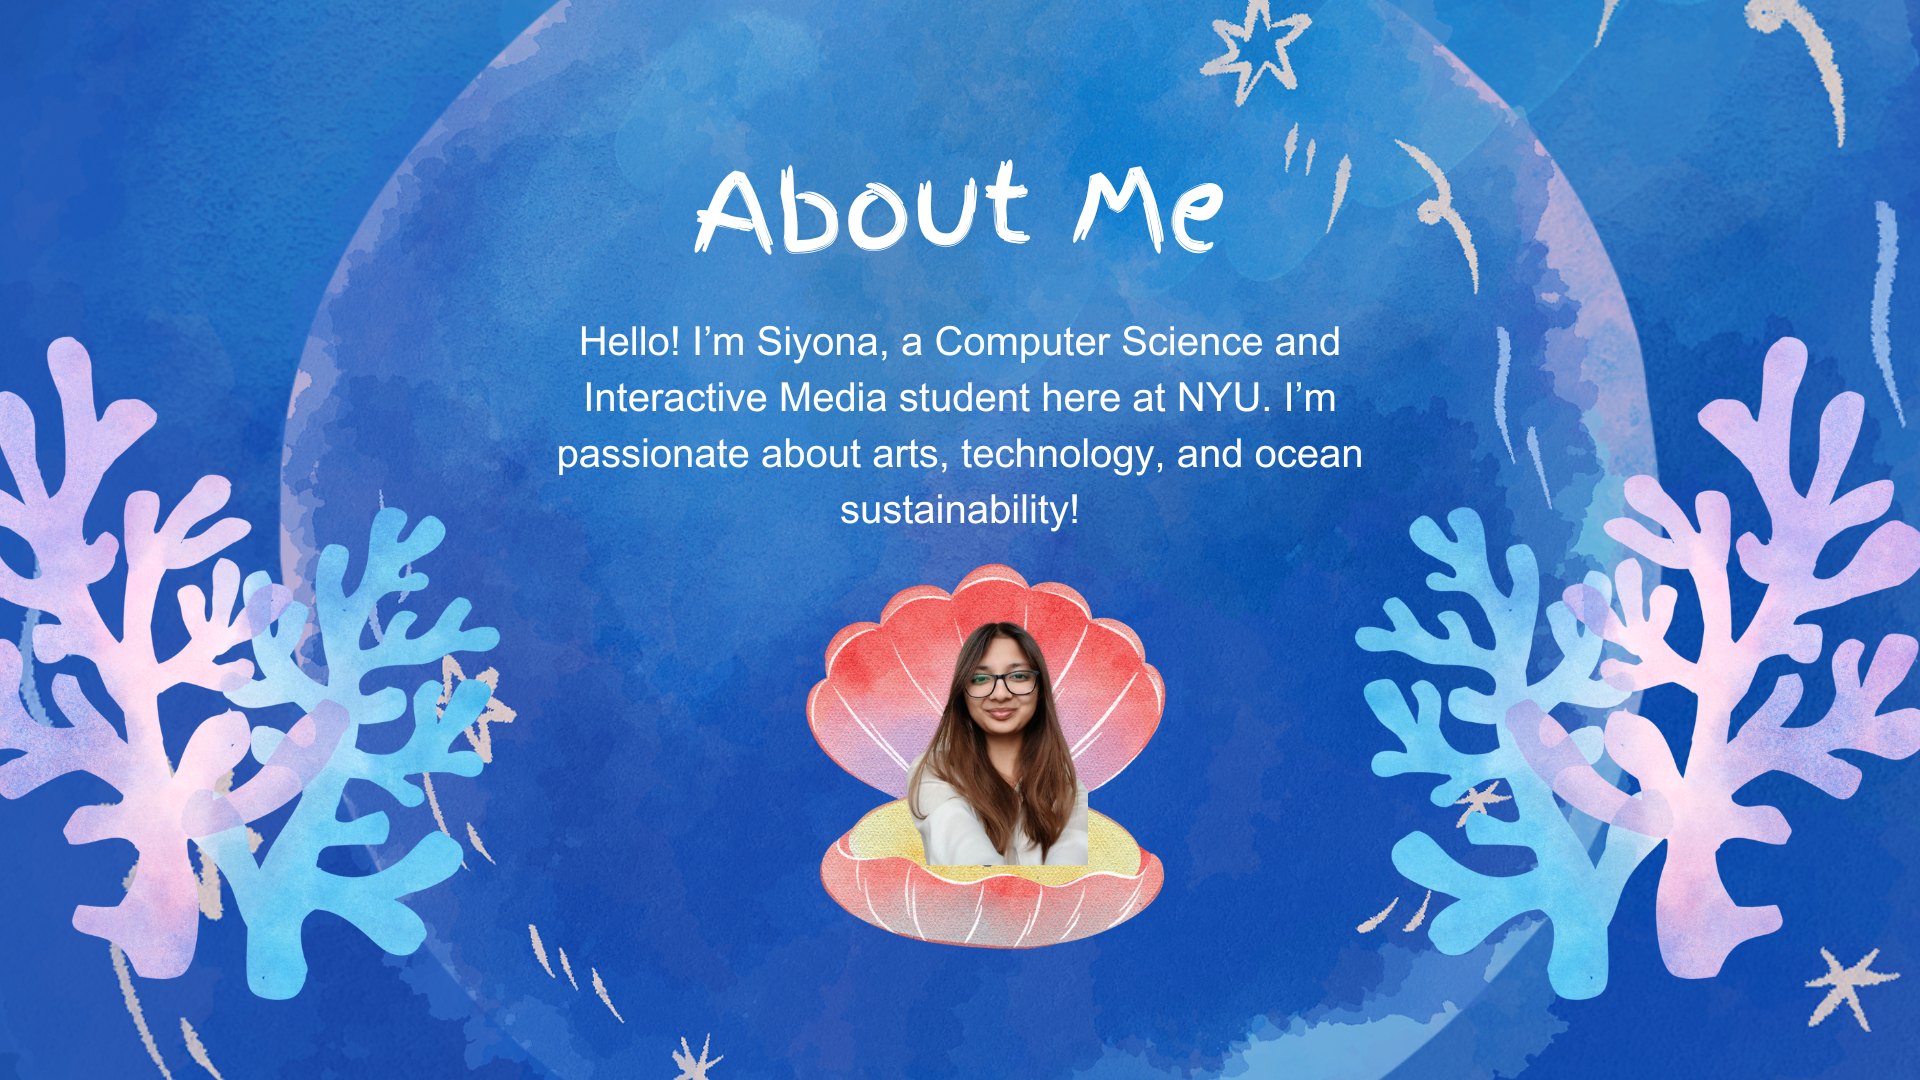
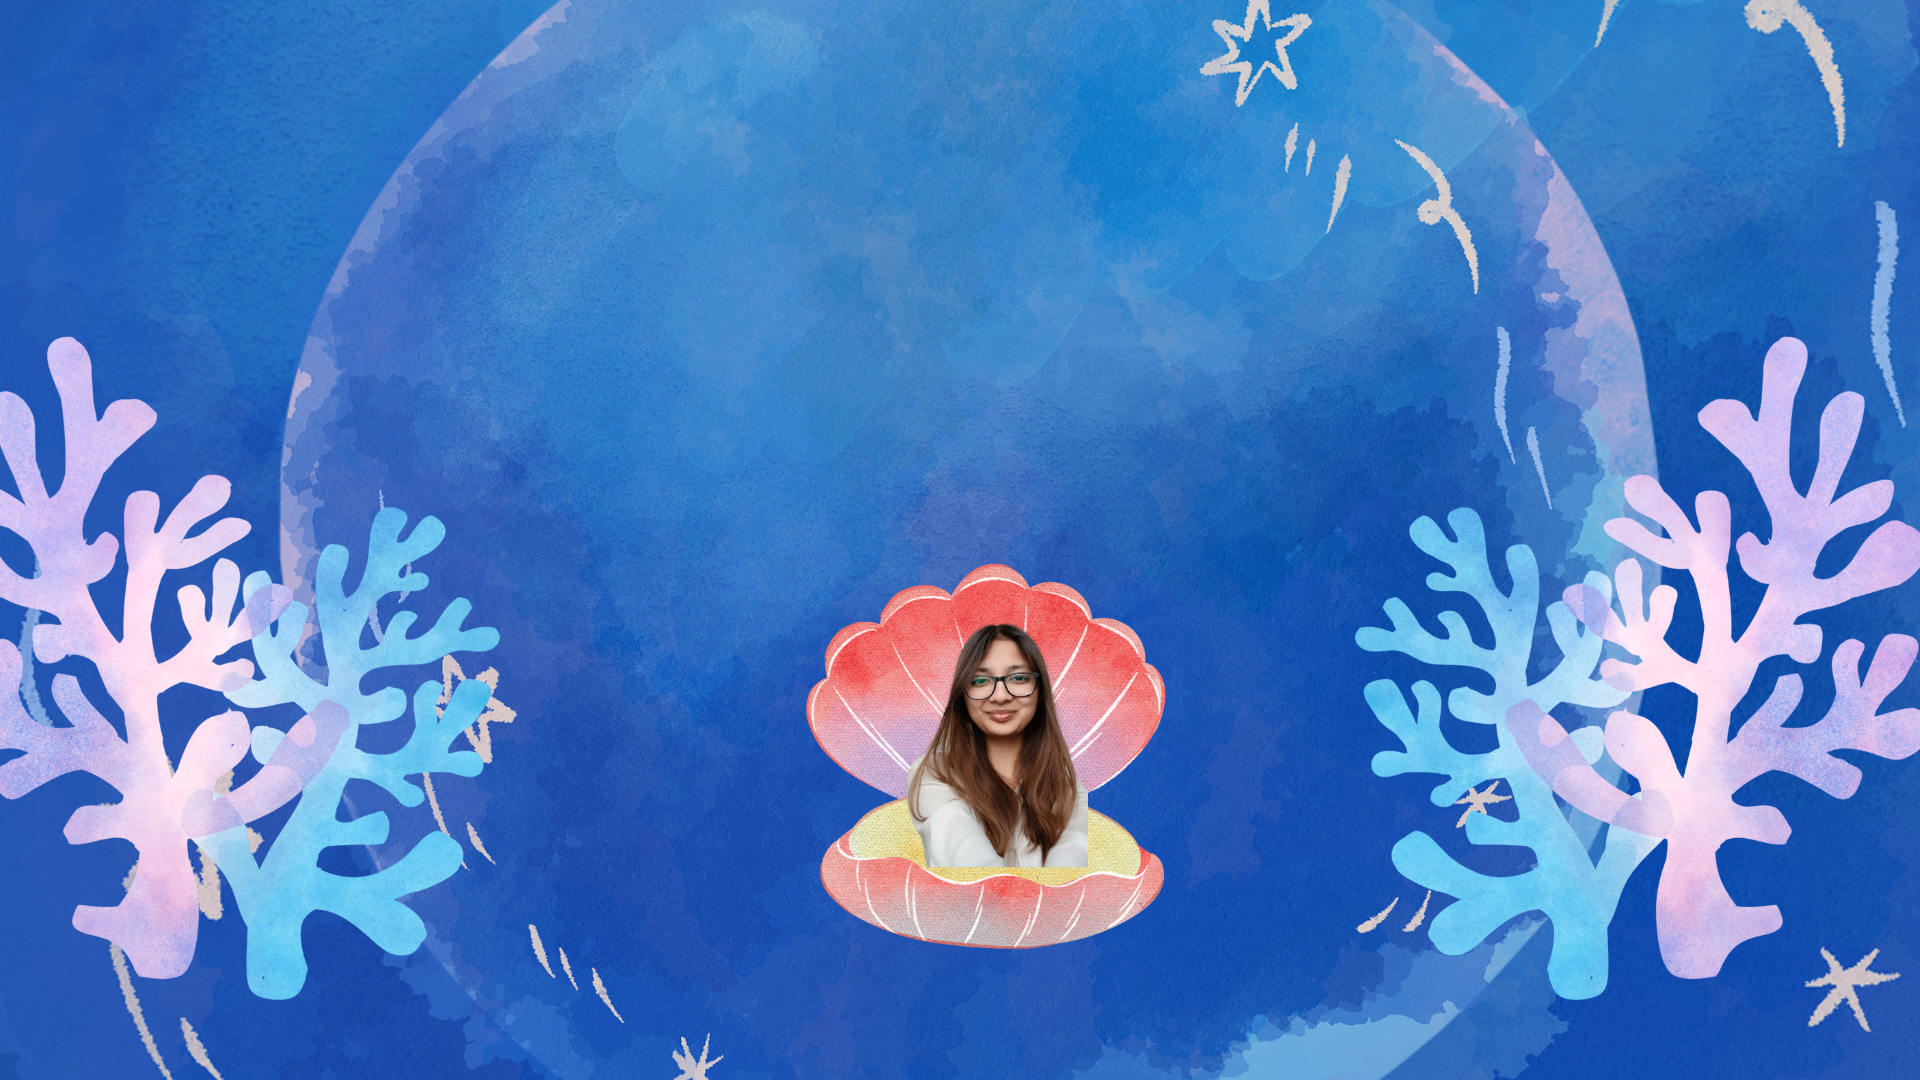
update

diff --git a/style.css b/style.css
@@ -553,6 +553,31 @@ body {
     display: block; /* Removes any inline spacing */
 }
 
+.about-text {
+    position: absolute;
+    top: 27%;
+    left: 50%;
+    transform: translate(-50%, -50%);
+    text-align: center;
+    color: white;
+    z-index: 2;
+    max-width: 80%;
+}
+
+.about-heading {
+    font-family: 'Finger Paint', cursive;
+    font-size: 3.5rem;
+    margin: 0;
+}
+
+.about-description {
+    font-family: 'Arial', sans-serif;
+    font-size: 1.5rem;
+    line-height: 1.8;
+    margin-top: 1rem;
+}
+
+
 /* Responsive design */
 @media screen and (max-width: 1024px) {
     .nav-links {
@@ -611,6 +636,14 @@ body {
     .sub-heading {
         font-size: 1.8rem;
     }
+
+    .about-heading {
+        font-size: 2.5rem;
+    }
+
+    .about-description {
+        font-size: 1.1rem;
+    }
 }
 
 @media screen and (max-width: 480px) {
@@ -650,6 +683,19 @@ body {
 
     .home-text {
         top: 45%; /* Move text slightly lower for better spacing */
+    }
+
+    .about-heading {
+        font-size: 1.8rem;
+    }
+
+    .about-description {
+        font-size: 1rem;
+    }
+
+    .about-text {
+        top: 50%;
+        max-width: 90%;
     }
 }
 

diff --git a/about.html b/about.html
@@ -30,7 +30,15 @@
     <main class="home-container">
         <div class="about-image-container">
             <img src="media/about_page.png" alt="Home Page Background" class="about-image">       
-            
+            <div class="about-text">
+                <h1 class="about-heading">About Me</h1>
+                <p class="about-description">
+                    Hello! I'm Siyona, a Computer Science and<br>
+                    Interactive Media student here at NYU. I'm<br>
+                    passionate about arts, technology and ocean<br>
+                    sustainability!
+                </p>
+            </div>            
 
     <script src="script.js"></script>
 </body>
